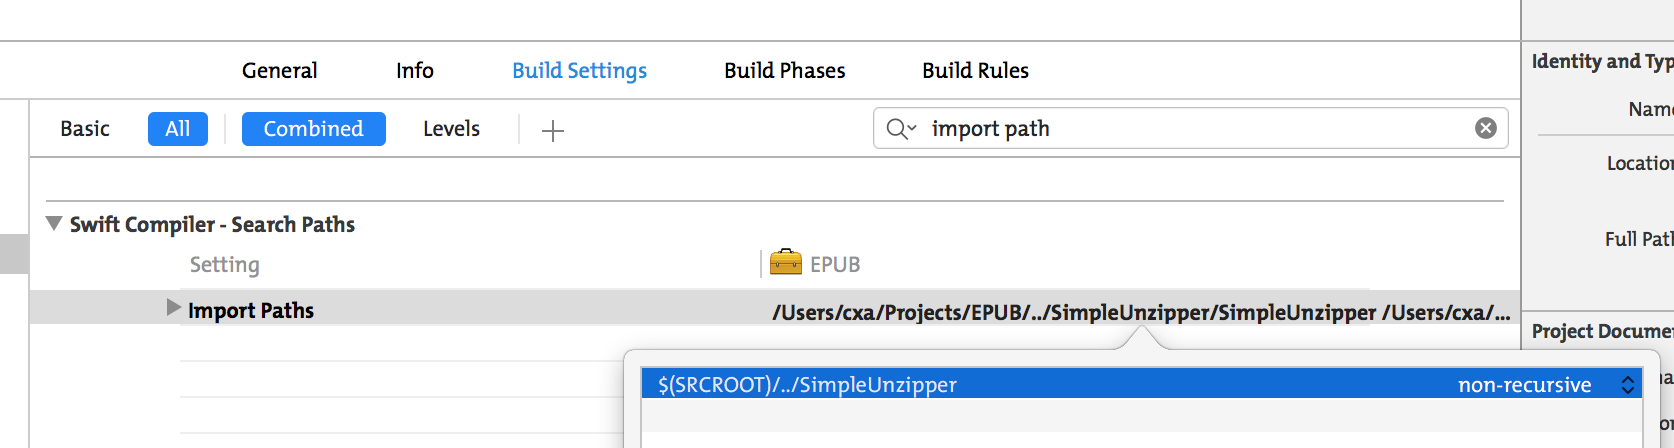
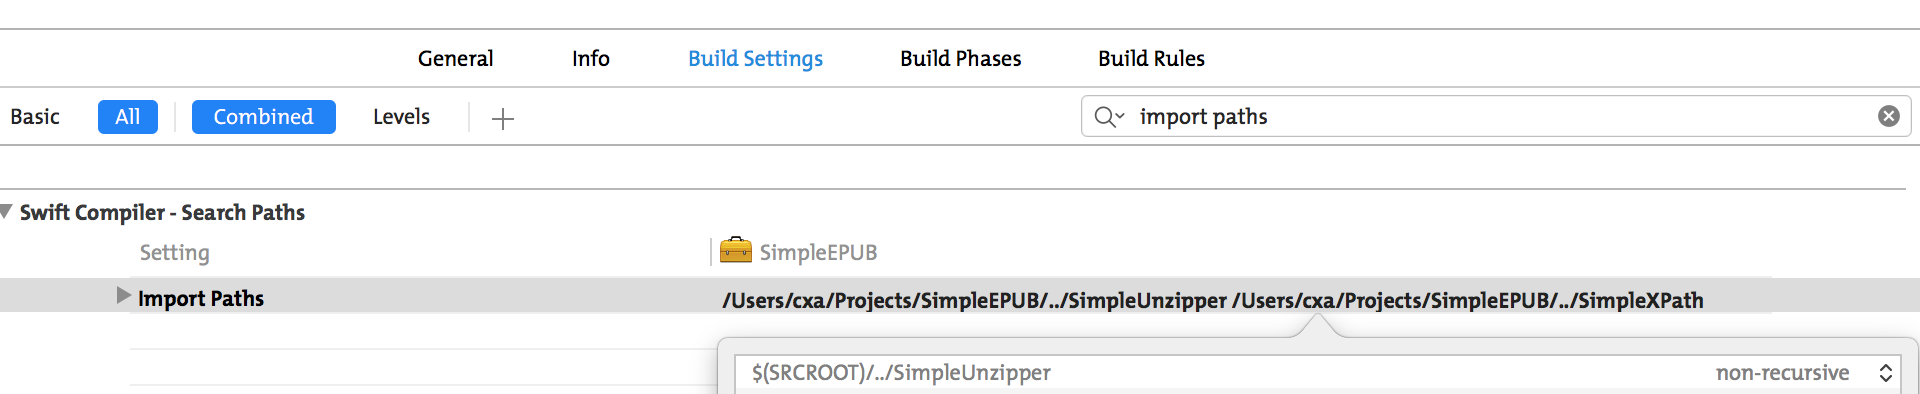
Update README

diff --git a/README.md b/README.md
@@ -1,14 +1,18 @@
 # SimpleUnzipper
 
-Unzip unencrypted (no password), non-zip64 (large than 4GB) files, written in Swift. It's driven by a private (currently) EPUB parser project, since EPUB is simply a zip file.
+Unzip single, unencrypted (no password), non-zip64 (large than 4GB) files, written in Swift 1.2. It's driven by a private (currently) EPUB parser project, since EPUB is simply a zip file.
 
 ## Installation
 
-`SimpleUnzipper` is encapsulated as a Framework. Drag `SimpleUnzipper.xcodeproj` into your project, add `libz.dylib` and `SimpleUnzipper` to “Linked Frameworks and Libraries” under “General” tab of target settings. The most important step, don't fprget to add correct path which contains `SimpleUnzipper` to target's `Build Settings` -> `Swift Compiler - Search Paths` -> `Import Paths`. As below shows, `SimpleUnzipper` is on the same directory as the target project.
+`SimpleUnzipper` is encapsulated as a Framework. Drag `SimpleUnzipper.xcodeproj` into your project, add `libz.dylib` and `SimpleUnzipper` to “Linked Frameworks and Libraries” under “General” tab of target settings.
+
+![General Settings](gsettings.png)
+
+The most important step, don't forget to add correct path which contains `SimpleUnzipper` to target's `Build Settings` -> `Swift Compiler - Search Paths` -> `Import Paths`. As below shows, `SimpleUnzipper` is on the same directory as the target project.
 
 ![Build Settings Example](bsettings.png)
 
-If you add `SimpleUnzipper` inside your project dirctory, the `Import Path` should be `$(SRCROOT)/SimpleUnzipper`
+If you add `SimpleUnzipper` inside your project dirctory, the `Import Paths` should be `$(SRCROOT)/SimpleUnzipper`
 
 
 ## Example
@@ -34,11 +38,11 @@ if let unzipper = <b>SimpleUnzipper.createWithURL(url)</b> {
 }
 </pre>
 		
-## Creator
+## About Me
 
-* GitHub: <https://github.com/cxa>
 * Twitter: [@_cxa](https://twitter.com/_cxa)
 * Apps available in App Store: <http://lazyapps.com>
+* PayPal: xianan.chen+paypal 📧 gmail.com, buy me a cup of coffee if you find it's useful for you.
 
 ## Credits
 
@@ -47,4 +51,4 @@ Test examle file `test.epub` is downloaded from <https://code.google.com/p/epub-
 
 ## License
 
-Under the MIT license. See the LICENSE file for more information.
+Under the MIT license. See the LICENSE file for more information. For non attributed commercial lisence, please contact me.
